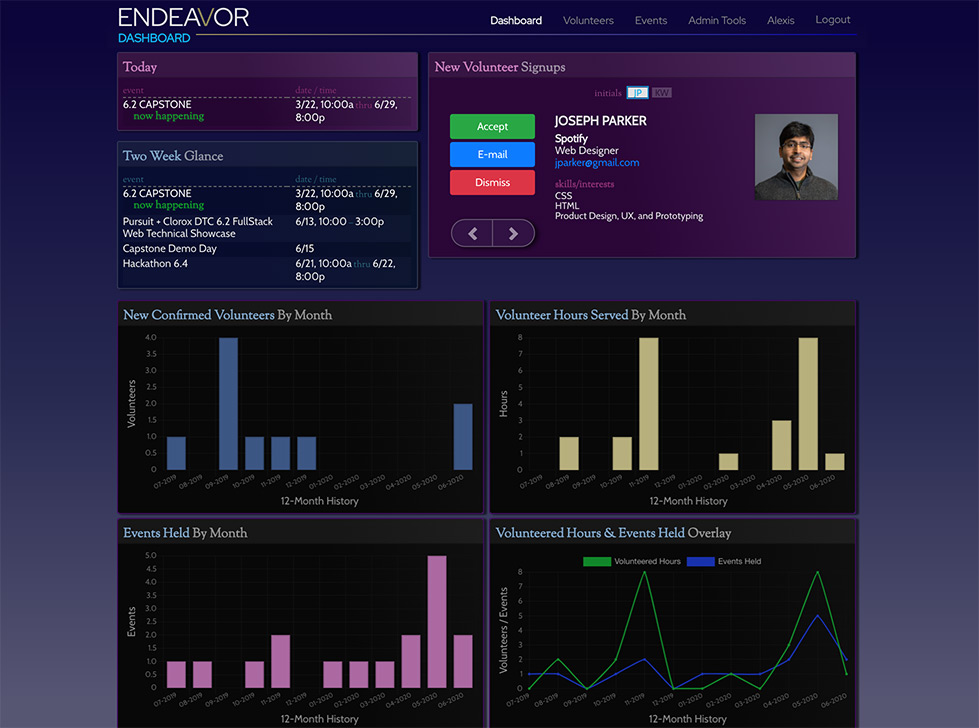
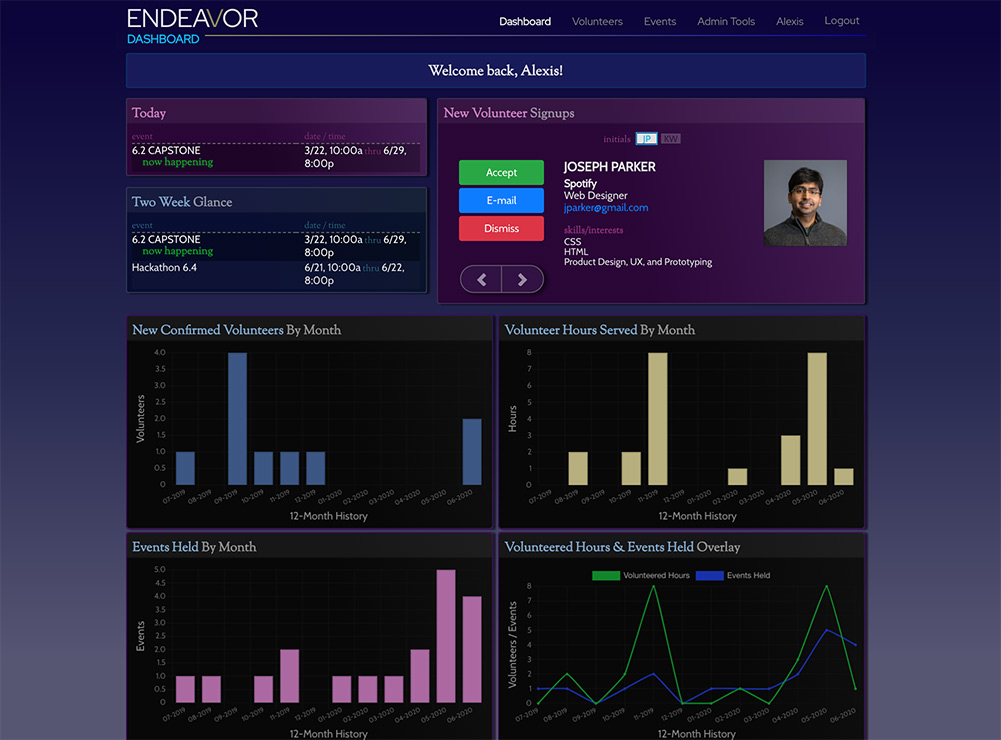
update README with updated admin screencap, add link to presentation video, add animated gif of newVols module

Changed region(s): [[0.1226, 0.0, 0.8887, 1.0]]

diff --git a/README.md b/README.md
@@ -7,7 +7,15 @@
 + [Briahana Maugé (@Briahana-Mauge)](https://github.com/Briahana-Mauge) [[LI]](https://www.linkedin.com/in/bmauge/)
 + [Joseph P. Pasaoa (@joseph-p-pasaoa)](https://github.com/joseph-p-pasaoa) [[LI]](https://www.linkedin.com/in/josephpasaoa/)
 
-## Instructional Team
+## **Demos**
++ **Live:** *Coming Soon*
++ **Presentation:** [EndeaVor - Pursuit Tech Demo Day (2020 June 13) | YouTube](https://youtu.be/OCiUcRd6P40)
++ **Admin Dashboard screencap:**
+  ![screencap of admin dashboard](./docs/readme/screenAdminDashboard.jpg)
++ **New Volunteers Module videocap:**
+  ![animated gif](/docs/readme/newVolunteersDashExample.gif)
+
+## **Instructional Team**
 + **Lead Instructor:** [Alejandro Franco (@alejo4373)](https://github.com/alejo4373)
 + **Instructor Asst:** [Jung Rae Jang (@jungraejang)](https://github.com/jungraejang)
 + **Instructor Asst:** [Wynter Reid (@wynterreid)](https://github.com/wynterreid)
@@ -15,10 +23,9 @@
 + **Advisor:** [Dion Ridley (@dionridley)](https://www.linkedin.com/in/dionridley/)
 + **Advisor:** [Ben Sussman (@bensussman)](https://www.linkedin.com/in/bensussman/)
 
-![screencap of admin dashboard](./docs/readme/screenAdminDashboard.jpg)
+---
 
-
-### _Table of Contents_
+## **_Table of Contents_**
 + I. [Technologies Implemented](#i-technologies-implemented)
 + II. [Setup](#ii-setup)
 + III. [Database Schema](#iii-database-schema)
